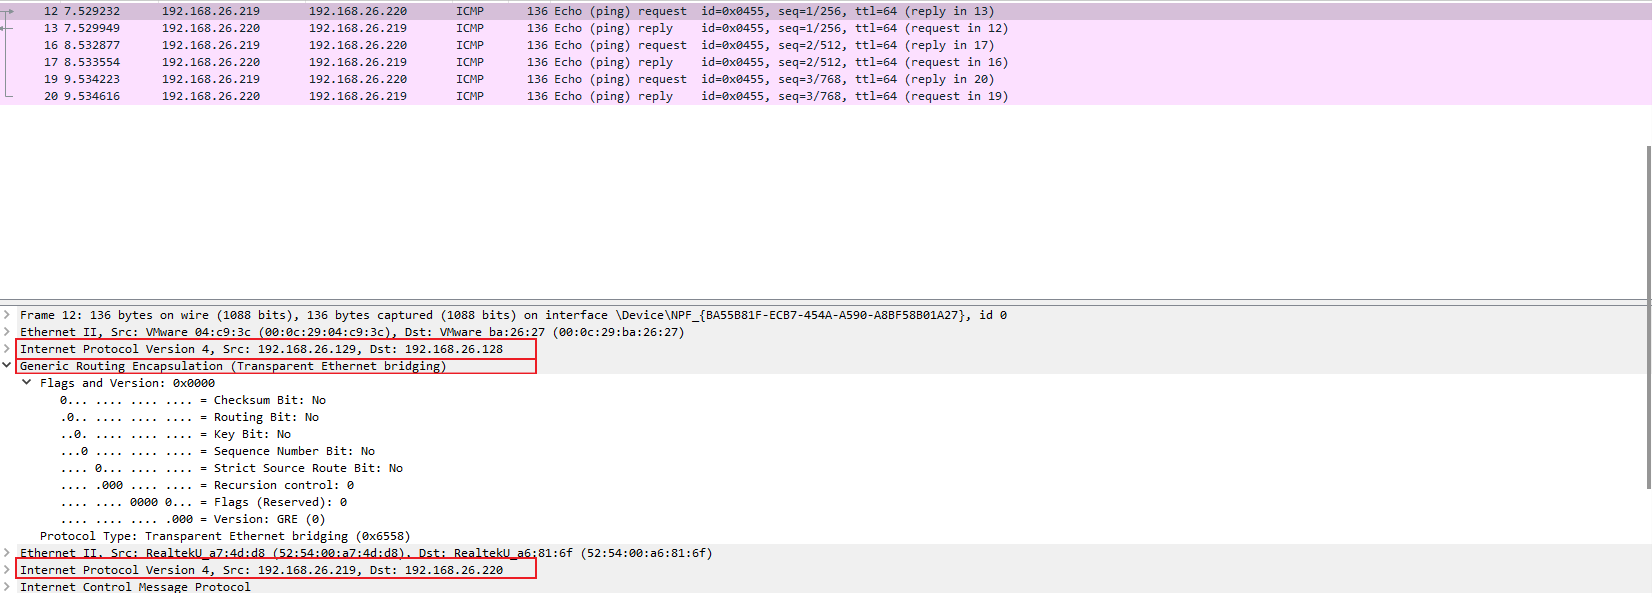
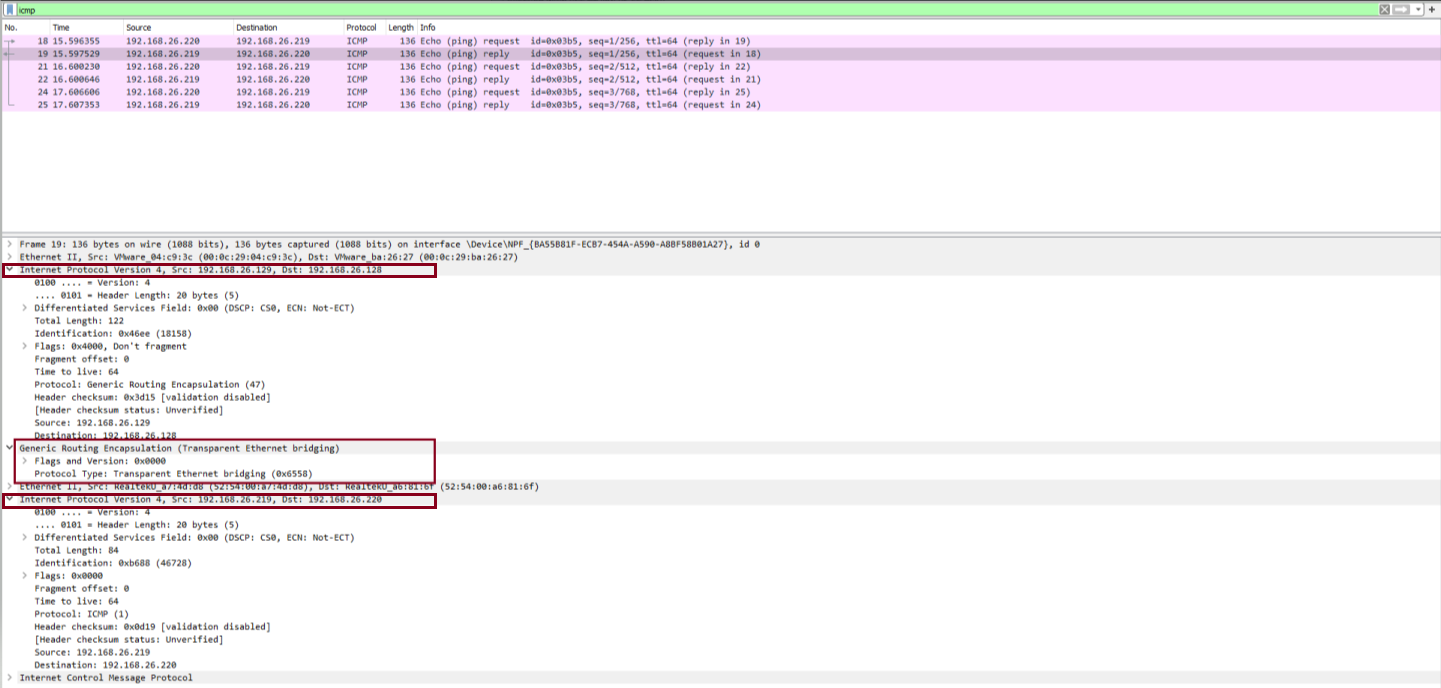
Update

Changed region(s): [[0.0, 0.3317, 1.0, 0.995], [0.0, 0.0, 1.0, 0.1809]]

diff --git a/Virtualization/OVS(OpenVSwitch)/OPENVSWITCH/LAB-GRE.md b/Virtualization/OVS(OpenVSwitch)/OPENVSWITCH/LAB-GRE.md
@@ -25,20 +25,46 @@
 ![LAB-GRE/Untitled.png](LAB-GRE/Untitled.png)
 
 **Mục Lục**
-- [LAB số 4 : Ứng dụng lý thuyết GRE](#lab-số-4--ứng-dụng-lý-thuyết-gre)
-- [1. Thực hiện tạo Bridge `ovs0`](#1-thực-hiện-tạo-bridge-ovs0)
-- [2. Tạo Network](#2-tạo-network)
-- [3. Tiến hành thêm Port VM và Port GRE vào Bridge](#3-tiến-hành-thêm-port-vm-và-port-gre-vào-bridge)
-- [4. Kiểm tra việc Ping giữa 2 VM và xem bản tin tại Wireshark](#4-kiểm-tra-việc-ping-giữa-2-vm-và-xem-bản-tin-tại-wireshark)
-- [Nguồn tham khảo](#nguồn-tham-khảo)
 
-# 1. Thực hiện tạo Bridge `ovs0`
+# 1. Cấu hình tại Server 1
 
-Đầu tiên chúng ta cần tạo 1 Bridge `ovs0`  công việc được thực hiện tại 2 Server :
+Đầu tiên chúng ta cần tạo 1 Bridge `ovs0` :
 
 ```bash
 root@ubun-server:/# ovs-vsctl add-br ovs0
 ```
+
+*Thông qua câu lệnh `ovs-vsctl` thì chúng ta đã khởi tạo ( `add-br` ) có tên là `ovs0`*
+
+Sau khi đã tiến hành các bước trên, chúng ta sẽ thêm các Port của VM vào Bridge đã có sẵn. Ở chế độ mặc định thì các VM sẽ thuộc vào Linux Bridge `virbr0` , nên chúng ta cần tiến hành xóa ( Nếu VM của bạn không thuộc `virbr0` thì có thể bỏ qua bước này ) :
+
+```bash
+root@ubun-server:~# brctl show
+bridge name     bridge id               STP enabled     interfaces
+virbr0          8000.525400379997       yes             virbr0-nic
+                                                        vnet0
+                                                        vnet1
+root@ubun-server:~# brctl delif virbr0 vnet0
+root@ubun-server:~# brctl show
+bridge name     bridge id               STP enabled     interfaces
+virbr0          8000.525400379997       yes             virbr0-nic
+```
+
+Tiếp theo, ta sẽ thêm các Port VM và Port GRE vào Bridge `ovs0` :
+
+```bash
+root@ubun-server:/# ovs-vsctl add-port ovs0 vnet0
+root@ubun-server:/# ovs-vsctl add-port ovs0 vnet1
+root@ubun-server:/# ovs-vsctl add-port ovs0 gre0 -- set interface gre0 type=gre options:remote_ip=192.168.26.128
+```
+
+*Trong đó `192.168.26.128` là địa chỉ IP tại Server 2 và `gre0` là tên Port GRE ta khởi tạo*
+
+**Lưu ý: Ở đây chúng ta sẽ không tiến hành thêm Port `ens39` vào các Bridge tại các Server!!!**
+
+# 2. Cấu hình tại Server 2
+
+Đầu tiên chúng ta cần tạo 1 Bridge `ovs0`  :
 
 ```bash
 root@ubun-server-2:/# ovs-vsctl add-br ovs0
@@ -46,7 +72,33 @@ root@ubun-server-2:/# ovs-vsctl add-br ovs0
 
 *Thông qua câu lệnh `ovs-vsctl` thì chúng ta đã khởi tạo ( `add-br` ) có tên là `ovs0`*
 
-# 2. Tạo Network
+Sau khi đã tiến hành các bước trên, chúng ta sẽ thêm các Port của VM vào Bridge đã có sẵn. Ở chế độ mặc định thì các VM sẽ thuộc vào Linux Bridge `virbr0` , nên chúng ta cần tiến hành xóa ( Nếu VM của bạn không thuộc `virbr0` thì có thể bỏ qua bước này ) :
+
+```bash
+root@ubun-server-2:~# brctl show
+bridge name     bridge id               STP enabled     interfaces
+virbr0          8000.525400379997       yes             virbr0-nic
+                                                        vnet0
+                                                        vnet1
+root@ubun-server-2:~# brctl delif virbr0 vnet0
+root@ubun-server-2:~# brctl show
+bridge name     bridge id               STP enabled     interfaces
+virbr0          8000.525400379997       yes             virbr0-nic
+```
+
+Tiếp theo, ta sẽ thêm các Port VM và Port GRE vào Bridge `ovs0` :
+
+```bash
+root@ubun-server-2:/# ovs-vsctl add-port ovs0 vnet0
+root@ubun-server-2:/# ovs-vsctl add-port ovs0 vnet1
+root@ubun-server-2:/# ovs-vsctl add-port ovs0 gre0 -- set interface gre0 type=gre options:remote_ip=192.168.26.129
+```
+
+*Trong đó `192.168.26.129` là địa chỉ IP tại Server 1 và `gre0` là tên Port GRE ta khởi tạo*
+
+**Lưu ý: Ở đây chúng ta sẽ không tiến hành thêm Port `ens39` vào các Bridge tại các Server!!!**
+
+# 3. Tạo Network tại 2 Server
 
 Công việc tiếp theo là khởi tạo 1 Network để có thể kết nối 2 VM tới Network này. Đầu tiên chúng ta cần tạo 1 file `ovs.xml` tại đường dẫn `/etc/libvirt/qemu/networks/` có nội dung như sau :
 
@@ -84,38 +136,7 @@ root@ubun-server-2:/etc/libvirt/qemu/networks# virsh net-list --all
 - Câu lệnh 3, chuyển chế độ của Network sang tự khởi động mỗi khi máy Boot
 - Câu lệnh 4, Kiểm tra việc khởi tạo Network
 
-# 3. Tiến hành thêm Port VM và Port GRE vào Bridge
-
-Sau khi đã tiến hành các bước trên, chúng ta sẽ thêm các Port của VM vào Bridge đã có sẵn. Ở chế độ mặc định thì các VM sẽ thuộc vào Linux Bridge `virbr0` , nên chúng ta cần tiến hành xóa tại 2 Server ( Nếu VM của bạn không thuộc `virbr0` thì có thể bỏ qua bước này ) :
-
-```bash
-root@ubun-server:~# brctl show
-bridge name     bridge id               STP enabled     interfaces
-virbr0          8000.525400379997       yes             virbr0-nic
-                                                        vnet0
-root@ubun-server:~# brctl delif virbr0 vnet0
-root@ubun-server:~# brctl show
-bridge name     bridge id               STP enabled     interfaces
-virbr0          8000.525400379997       yes             virbr0-nic
-```
-
-Tiếp theo, ta sẽ thêm các Port VM và thêm 1 Port GRE vào Bridge `ovs0` :
-
-```bash
-root@ubun-server:/# ovs-vsctl add-port ovs0 vnet0
-root@ubun-server:/# ovs-vsctl add-port ovs0 gre0 -- set interface gre0 type=gre options:remote_ip=192.168.26.128
-```
-
-*Trong đó `192.168.26.128` là địa chỉ IP tại Server 2 và `gre0` là tên Port GRE ta khởi tạo*
-
-```bash
-root@ubun-server-2:/# ovs-vsctl add-port ovs0 vnet0
-root@ubun-server-2:/# ovs-vsctl add-port ovs0 gre0 -- set interface gre0 type=gre options:remote_ip=192.168.26.129
-```
-
-*Trong đó `192.168.26.129` là địa chỉ IP tại Server 1 và `gre0` là tên Port GRE ta khởi tạo*
-
-**Lưu ý: Ở đây chúng ta sẽ không tiến hành thêm Port `ens39` vào các Bridge tại các Server!!!**
+**Công việc này được lặp lại tại Server 1**!
 
 # 4. Kiểm tra việc Ping giữa 2 VM và xem bản tin tại Wireshark
 
@@ -124,35 +145,74 @@ Thực hiện truy cập vào 2 VM đặt địa chỉ IP tĩnh
 Tại VM-1
 
 ```bash
+[root@localhost ~]# ip a f eth0
 [root@localhost ~]# ip a a 192.168.26.219/24 dev eth0
+```
+
+Tại VM-3
+
+```bash
+[root@localhost ~]# ip a f eth0
+[root@localhost ~]# ip a a 192.168.26.220/24 dev eth0
 ```
 
 Tại VM-2
 
 ```bash
-[root@localhost ~]# ip a a 192.168.26.220/24 dev eth0
+root@debian:~# ip a f ens2
+root@debian:~# ip a a 192.168.26.211/24 dev ens2
 ```
 
-Sau đó tại VM-1 sẽ ping VM-2
+Tại VM-4
 
 ```bash
-[root@localhost ~]# ping 192.168.26.220
-PING 192.168.26.220 (192.168.26.220) 56(84) bytes of data.
-64 bytes from 192.168.26.220: icmp_seq=1 ttl=64 time=1.25 ms
-64 bytes from 192.168.26.220: icmp_seq=2 ttl=64 time=0.758 ms
-64 bytes from 192.168.26.220: icmp_seq=3 ttl=64 time=0.749 ms
-64 bytes from 192.168.26.220: icmp_seq=4 ttl=64 time=0.893 ms
-
---- 192.168.26.220 ping statistics ---
-4 packets transmitted, 4 received, 0% packet loss, time 3012ms
-rtt min/avg/max/mdev = 0.749/0.914/1.258/0.208 ms
+root@debian:~# ip a f ens2
+root@debian:~# ip a a 192.168.26.210/24 dev ens2
 ```
 
-→ Việc Ping thành công → 2 VM đã được kết nối thông qua GRE và điều đó được thể hiện thông qua việc xem bản tin WireShark
+Sau đó tại VM-3 sẽ ping VM-1
+
+```bash
+[root@localhost ~]# ping 192.168.26.219
+PING 192.168.26.219 (192.168.26.219) 56(84) bytes of data.
+64 bytes from 192.168.26.219: icmp_seq=1 ttl=64 time=3.04 ms
+64 bytes from 192.168.26.219: icmp_seq=2 ttl=64 time=0.896 ms
+64 bytes from 192.168.26.219: icmp_seq=3 ttl=64 time=1.36 ms
+
+--- 192.168.26.219 ping statistics ---
+3 packets transmitted, 3 received, 0% packet loss, time 2006ms
+rtt min/avg/max/mdev = 0.896/1.767/3.041/0.921 ms
+```
+
+→ Việc Ping thành công với 3/3 gói tin thành công
+
+Và tương tự VM-2 sẽ ping VM-4
+
+```bash
+root@debian:~# ping 192.168.26.210
+PING 192.168.26.210 (192.168.26.210) 56(84) bytes of data.
+64 bytes from 192.168.26.210: icmp_seq=1 ttl=64 time=3.63 ms
+64 bytes from 192.168.26.210: icmp_seq=2 ttl=64 time=1.16 ms
+64 bytes from 192.168.26.210: icmp_seq=3 ttl=64 time=3.19 ms
+^C
+--- 192.168.26.210 ping statistics ---
+3 packets transmitted, 3 received, 0% packet loss, time 8ms
+rtt min/avg/max/mdev = 1.155/2.657/3.631/1.077 ms
+```
+
+→ Việc Ping thành công với 3/3 gói tin thành công
+
+Để kiểm tra xem có 2 VM có thực sự dùng giao thức GRE không, chúng ta sẽ sẽ dụng phần mềm **WireShark** để bắt gói tin
 
 ![LAB-GRE/Untitled%201.png](LAB-GRE/Untitled%201.png)
 
-⇒ Như vậy đã có sự xuất hiện của GRE Header và Outer IP Header → Chứng tỏ các bản tin của ta đã sử dụng GRE Tunnel .
+→ Như vậy trong trường hợp đầu tiên ( VM3 ping VM1) đã có thêm tiêu đề GRE trong bản tin.
+
+![LAB-GRE/Untitled%202.png](LAB-GRE/Untitled%202.png)
+
+→ Và tương tự trong trường hợp thứ hai ( VM2 ping VM4) đã có thêm tiêu đề GRE trong bản tin 
+
+⇒ Như vậy đã có sự xuất hiện của **GRE Header** và **Outer IP Header** trong cả 2 trường hợp → Chứng tỏ các bản tin của ta đã sử dụng GRE Tunnel .
 
 ---
 
